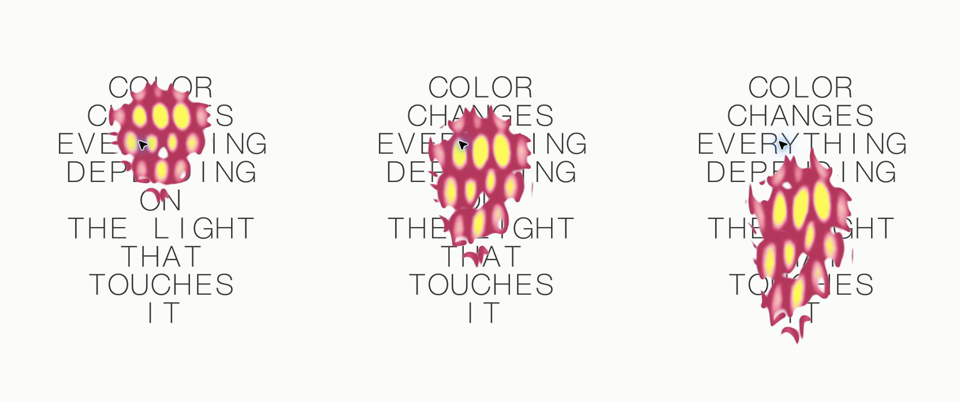
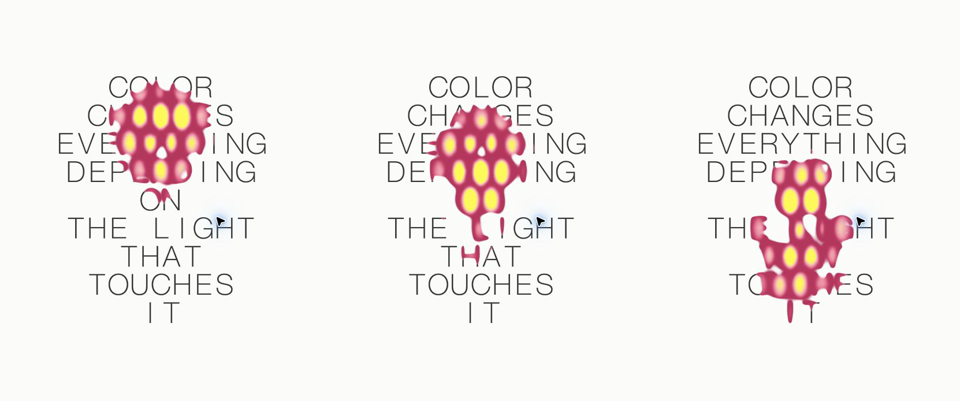
fix: flow cursor falloff through text metaballs

diff --git a/pages/color-text/script.ts b/pages/color-text/script.ts
@@ -144,7 +144,6 @@ let interactionSpeed = 0;
 let dwellAmount = 0;
 let dripAge = Number.POSITIVE_INFINITY;
 let dripEnergy = 0;
-let dripCaptureRequested = QA_MODE && state.interactionMode === 'drip';
 let artworkRect = { left: 0, top: 0, width: ART_WIDTH, height: ART_HEIGHT };
 let startTime = performance.now();
 let previousTime = startTime;
@@ -385,11 +384,6 @@ const historyTargetA = new THREE.WebGLRenderTarget(FIELD_WIDTH, FIELD_HEIGHT, li
 const historyTargetB = new THREE.WebGLRenderTarget(FIELD_WIDTH, FIELD_HEIGHT, linearTargetOptions);
 const interactionTargetA = new THREE.WebGLRenderTarget(FIELD_WIDTH, FIELD_HEIGHT, linearTargetOptions);
 const interactionTargetB = new THREE.WebGLRenderTarget(FIELD_WIDTH, FIELD_HEIGHT, linearTargetOptions);
-const dripSnapshotTarget = new THREE.WebGLRenderTarget(
-  FIELD_WIDTH,
-  FIELD_HEIGHT,
-  linearTargetOptions,
-);
 const strokeSpreadTargetA = new THREE.WebGLRenderTarget(FIELD_WIDTH, FIELD_HEIGHT, linearTargetOptions);
 const strokeSpreadTargetB = new THREE.WebGLRenderTarget(FIELD_WIDTH, FIELD_HEIGHT, linearTargetOptions);
 const colorHorizontalTarget = new THREE.WebGLRenderTarget(FIELD_WIDTH, FIELD_HEIGHT, linearTargetOptions);
@@ -495,25 +489,6 @@ const temporalMaterial = new THREE.ShaderMaterial({
   depthWrite: false,
 });
 
-const snapshotMaterial = new THREE.ShaderMaterial({
-  vertexShader,
-  fragmentShader: `
-    precision highp float;
-
-    varying vec2 vUv;
-    uniform sampler2D uInput;
-
-    void main() {
-      gl_FragColor = texture2D(uInput, vUv);
-    }
-  `,
-  uniforms: {
-    uInput: { value: sourceTarget.texture },
-  },
-  depthTest: false,
-  depthWrite: false,
-});
-
 const interactionFieldMaterial = new THREE.ShaderMaterial({
   vertexShader,
   fragmentShader: `
@@ -522,7 +497,8 @@ const interactionFieldMaterial = new THREE.ShaderMaterial({
     varying vec2 vUv;
     uniform sampler2D uHistory;
     uniform sampler2D uPrevious;
-    uniform sampler2D uDripSnapshot;
+    uniform sampler2D uText;
+    uniform sampler2D uColorCenters;
     uniform vec2 uArtSize;
     uniform vec2 uPointer;
     uniform vec2 uVelocityDirection;
@@ -545,6 +521,13 @@ const interactionFieldMaterial = new THREE.ShaderMaterial({
     uniform float uDripTurbulence;
     uniform float uDripStrength;
     uniform float uDripPinchTime;
+    uniform vec2 uLightRadius;
+    uniform float uLightRadiusYBelow;
+    uniform float uLightFalloff;
+    uniform float uLightTaperAbove;
+    uniform float uLightTaperBelow;
+    uniform float uLightTaperStart;
+    uniform float uLightTaperEnd;
     uniform float uTime;
 
     void main() {
@@ -688,26 +671,56 @@ const interactionFieldMaterial = new THREE.ShaderMaterial({
         float lateralWarp = (
           sin(sourceDown * 0.035 + localX * 0.018 + age * 1.08)
           - sin(localX * 0.018 + age * 1.08)
-        ) * 3.4 * uDripTurbulence;
+        ) * 3.4 * uDripTurbulence
+          * smoothstep(0.05, max(uDripPinchTime, 0.06), age);
 
         vec2 sourceUv = vec2(
           vUv.x - lateralWarp / uArtSize.x,
           uDripAnchor.y - sourceDown / uArtSize.y
         );
-        float inBounds = step(0.0, sourceUv.x) * step(sourceUv.x, 1.0)
-          * step(0.0, sourceUv.y) * step(sourceUv.y, 1.0);
-        vec4 movedField = texture2D(
-          uDripSnapshot,
-          clamp(sourceUv, vec2(0.0), vec2(1.0))
+
+        vec2 falloffDelta = (sourceUv - uDripAnchor) * uArtSize;
+        float verticalRadius = falloffDelta.y < 0.0
+          ? uLightRadiusYBelow
+          : uLightRadius.y;
+        float verticalRatio = abs(falloffDelta.y) / max(verticalRadius, 0.001);
+        float taperFloor = falloffDelta.y < 0.0
+          ? uLightTaperBelow
+          : uLightTaperAbove;
+        float horizontalTaper = mix(
+          1.0,
+          taperFloor,
+          smoothstep(uLightTaperStart, uLightTaperEnd, verticalRatio)
         );
-        movedField *= inBounds;
+        vec2 effectiveRadius = vec2(
+          uLightRadius.x * horizontalTaper,
+          verticalRadius
+        );
+        float normalizedDistance = length(
+          falloffDelta / max(effectiveRadius, vec2(0.001))
+        );
+        float flowedLight = 1.0 - smoothstep(
+          uLightFalloff,
+          1.0,
+          normalizedDistance
+        );
+        flowedLight *= smoothstep(1.04, 0.84, normalizedDistance);
+
+        float textMask = texture2D(uText, vUv).a;
+        float colorCenterMask = texture2D(uColorCenters, vUv).a;
 
         float densityPulse = 1.0 - breakup * uDripTurbulence * 0.12
           * (0.5 + 0.5 * sin(outputDown * 0.071 + localX * 0.043));
-        float movedSurface = movedField.r * uDripStrength * densityPulse;
+        float movedSurface = textMask
+          * pow(max(flowedLight, 0.0), 1.22)
+          * uDripStrength
+          * densityPulse;
+        float movedColor = colorCenterMask
+          * pow(max(flowedLight, 0.0), 1.12)
+          * densityPulse;
         float dripMix = clamp(uDripEnergy, 0.0, 1.0);
         surfaceActivation = mix(surfaceActivation, movedSurface, dripMix);
-        colorActivation = mix(colorActivation, movedField.b * densityPulse, dripMix);
+        colorActivation = mix(colorActivation, movedColor, dripMix);
         trail = 0.0;
       }
 
@@ -722,7 +735,8 @@ const interactionFieldMaterial = new THREE.ShaderMaterial({
   uniforms: {
     uHistory: { value: historyTargetA.texture },
     uPrevious: { value: interactionTargetA.texture },
-    uDripSnapshot: { value: dripSnapshotTarget.texture },
+    uText: { value: textTexture },
+    uColorCenters: { value: colorCenterTexture },
     uArtSize: { value: new THREE.Vector2(ART_WIDTH, ART_HEIGHT) },
     uPointer: { value: new THREE.Vector2(pointer.x, pointer.y) },
     uVelocityDirection: { value: new THREE.Vector2(1, 0) },
@@ -745,6 +759,13 @@ const interactionFieldMaterial = new THREE.ShaderMaterial({
     uDripTurbulence: { value: state.dripTurbulence },
     uDripStrength: { value: state.dripStrength },
     uDripPinchTime: { value: state.dripPinchTime },
+    uLightRadius: { value: new THREE.Vector2(state.radiusX, state.radiusY) },
+    uLightRadiusYBelow: { value: state.radiusYBelow },
+    uLightFalloff: { value: state.lightFalloff },
+    uLightTaperAbove: { value: state.taperAbove },
+    uLightTaperBelow: { value: state.taperBelow },
+    uLightTaperStart: { value: state.taperStart },
+    uLightTaperEnd: { value: state.taperEnd },
     uTime: { value: 0 },
   },
   depthTest: false,
@@ -1215,7 +1236,6 @@ clearTarget(historyTargetA);
 clearTarget(historyTargetB);
 clearTarget(interactionTargetA);
 clearTarget(interactionTargetB);
-clearTarget(dripSnapshotTarget);
 clearTarget(strokeSpreadTargetA);
 clearTarget(strokeSpreadTargetB);
 clearTarget(nearestTargetA);
@@ -1263,9 +1283,8 @@ function setPointerFromClient(clientX: number, clientY: number): void {
 function startDrip(): void {
   dripAnchor.x = pointerTarget.x;
   dripAnchor.y = pointerTarget.y;
-  dripAge = Number.POSITIVE_INFINITY;
-  dripEnergy = 0;
-  dripCaptureRequested = true;
+  dripAge = 0;
+  dripEnergy = 1;
 }
 
 if (!QA_POINTER_LOCKED) {
@@ -1295,13 +1314,11 @@ function interactionModeCode(mode: InteractionMode): number {
 function resetInteractionField(): void {
   clearTarget(interactionTargetA);
   clearTarget(interactionTargetB);
-  clearTarget(dripSnapshotTarget);
   interactionRead = interactionTargetA;
   interactionWrite = interactionTargetB;
   dwellAmount = 0;
   dripAge = Number.POSITIVE_INFINITY;
   dripEnergy = 0;
-  dripCaptureRequested = false;
   renderer.setClearColor(0xfbfbfa, 1);
   renderer.setRenderTarget(null);
 }
@@ -1566,19 +1583,6 @@ function animate(now: number): void {
   renderPass(temporalMaterial, historyWrite);
   [historyRead, historyWrite] = [historyWrite, historyRead];
 
-  if (dripCaptureRequested) {
-    sourceMaterial.uniforms.uPointer.value.set(dripAnchor.x, dripAnchor.y);
-    renderPass(sourceMaterial, sourceTarget);
-    snapshotMaterial.uniforms.uInput.value = sourceTarget.texture;
-    renderPass(snapshotMaterial, dripSnapshotTarget);
-    sourceMaterial.uniforms.uPointer.value.set(pointer.x, pointer.y);
-    if (!QA_MODE) {
-      dripAge = 0;
-      dripEnergy = 1;
-    }
-    dripCaptureRequested = false;
-  }
-
   const renderedDripAge = QA_MODE ? qaDripAge : dripAge;
   const renderedDripEnergy = QA_MODE
     ? THREE.MathUtils.clamp(qaDripEnergy, 0, 1)
@@ -1615,6 +1619,13 @@ function animate(now: number): void {
   interactionFieldMaterial.uniforms.uDripTurbulence.value = state.dripTurbulence;
   interactionFieldMaterial.uniforms.uDripStrength.value = state.dripStrength;
   interactionFieldMaterial.uniforms.uDripPinchTime.value = state.dripPinchTime;
+  interactionFieldMaterial.uniforms.uLightRadius.value.set(state.radiusX, state.radiusY);
+  interactionFieldMaterial.uniforms.uLightRadiusYBelow.value = state.radiusYBelow;
+  interactionFieldMaterial.uniforms.uLightFalloff.value = state.lightFalloff;
+  interactionFieldMaterial.uniforms.uLightTaperAbove.value = state.taperAbove;
+  interactionFieldMaterial.uniforms.uLightTaperBelow.value = state.taperBelow;
+  interactionFieldMaterial.uniforms.uLightTaperStart.value = state.taperStart;
+  interactionFieldMaterial.uniforms.uLightTaperEnd.value = state.taperEnd;
   interactionFieldMaterial.uniforms.uTime.value = elapsed;
   renderPass(interactionFieldMaterial, interactionWrite);
   [interactionRead, interactionWrite] = [interactionWrite, interactionRead];

diff --git a/docs/artworks/color-text/architecture.md b/docs/artworks/color-text/architecture.md
@@ -207,21 +207,27 @@ release 시간 = 0.34 s
 
 #### 터치 드립 모드
 
-클릭하거나 터치한 순간의 위치를 `dripAnchor`에 복사한다. 동시에 그 위치의 Falloff가 활성화한 **모든 글자 픽셀**을 `dripSnapshotTarget`에 한 장의 field로 저장한다. 이후에는 움직이는 커서가 아니라 이 고정된 전체 field와 `dripAge`를 사용한다.
+클릭하거나 터치한 순간에는 위치를 `dripAnchor`에 복사하고 경과 시간 `dripAge`를 `0`으로 만든다. **활성화된 글자 픽셀 이미지는 저장하지 않는다.** 이후 움직이는 것은 터치 결과로 나온 실루엣이 아니라, 원래 커서 주위에 있던 아래로 긴 Falloff 영역이다.
 
 ```text
-터치 위치 → Falloff 안의 활성 픽셀 전체를 저장
-경과 시간 + 중력 → field 전체의 아래 이동 거리
-가로 위치별 속도 차이 → 같은 덩어리 안에서 부분별 하강량 변화
-세로 신장 + 작은 좌우 굴곡 → 늘어지고 갈라지는 활성 field
-변형 field → 기존 Metaball 입력 → 기존 방식으로 실루엣 렌더링
+터치 위치 + 경과 시간 → 아래로 흐르는 Falloff 영역
+흐르는 Falloff × 현재 위치의 글자 픽셀 → 매 프레임 새로운 활성 픽셀
+활성 픽셀 → 기존 Metaball → 화면의 액체 실루엣
 ```
 
-이 모드는 완전한 유체 시뮬레이션이 아니다. 각 출력 픽셀이 “변형 전 스냅샷의 어느 픽셀을 읽어야 하는가”를 역으로 계산한다. 기본적으로 중력 시간식으로 전체 field를 아래로 옮기고, 가로 위치마다 조금 다른 속도와 세로 확대율을 준다. 그래서 하나의 작은 점이 새로 생기는 대신, 터치로 활성화됐던 글자 픽셀 덩어리 전체가 아래로 미끄러지고 늘어진다.
+계산은 각 출력 픽셀에서 연속적으로 이루어진다. 화면의 픽셀 `p`가 흐르기 전 Falloff의 어느 위치 `q`에서 왔는지를 중력, 세로 신장, 가로 위치별 속도 차이, 작은 좌우 굴곡으로 역산한다. 그런 다음 `q`에서 원래의 비대칭 타원 Falloff 값을 계산한다.
 
-중요한 점은 이 변형 결과를 화면에 직접 그리지 않는다는 것이다. 변형된 활성값은 `interactionFieldMaterial`의 R 채널에 들어간 뒤 `surfaceSourceMaterial → surfaceBlurMaterial → surfaceSmoothMaterial`을 그대로 통과한다. 즉 흐르는 영역만 유체처럼 계산하고, 최종 외곽선의 합쳐짐·둥근 연결·매끄러움은 기존 `192`개 황금각 표본 Metaball이 계속 담당한다. 색 중심도 같은 스냅샷의 B 채널을 같은 좌표로 이동하므로 터치 순간 별도 고정색을 주입하지 않는다.
+```text
+q = flowInverse(p, dripAnchor, dripAge)
+흐른 Falloff 값 = falloff(q, dripAnchor)
+드립 활성값(p) = 현재 글자 마스크(p) × 흐른 Falloff 값
+```
 
-![터치 직후의 전체 영역, 아래로 신장된 영역, 더 멀리 흐른 Metaball 영역](../../../pages/color-text/qa/interaction-drip-sequence.png)
+여기서 글자 마스크는 `q`가 아니라 **현재 출력 위치 `p`**에서 읽는다. 이 차이가 중요하다. 처음 닿았던 글자 픽셀을 아래로 복사하면 같은 덩어리가 통째로 미끄러지지만, 현재 방식은 흐르는 Falloff가 새 행을 지날 때 그곳의 새 글자 픽셀이 활성화된다. 따라서 `CHANGES`에서 만들어진 모양을 복사해 `THE LIGHT`로 내리는 것이 아니라, 내려온 영역과 `THE LIGHT`의 픽셀이 만나 전혀 새로운 실루엣이 생긴다.
+
+Falloff 자체는 화면에 직접 그리지 않는다. 위 곱셈의 결과만 `interactionFieldMaterial`의 R 채널에 넣고 `surfaceSourceMaterial → surfaceBlurMaterial → surfaceSmoothMaterial`을 그대로 통과시킨다. 흐르는 영향 영역의 움직임은 유체처럼 계산하지만, 글자 픽셀의 합쳐짐·둥근 연결·매끄러운 외곽선은 기존 `192`개 황금각 표본 Metaball이 계속 담당한다.
+
+![터치 직후 Falloff가 만난 글자, 아래로 흐르며 새로 만난 글자, 더 멀리 흐른 영역의 Metaball 실루엣](../../../pages/color-text/qa/interaction-drip-sequence.png)
 
 ### 5.4 너무 약한 활성 픽셀은 field 입력에서 제외한다
 
@@ -334,7 +340,6 @@ WebGL의 렌더 타깃은 GPU 안에서 다음 계산으로 넘겨줄 중간 이
 | --- | --- | --- |
 | `sourceTarget` | 글자 마스크 픽셀과 커서 Falloff를 곱한 현재 활성 이미지 | 시간 기억 |
 | `historyTargetA/B` | 각 글자 픽셀의 이전 값과 현재 값을 섞은 활성 기억 | 입력 감지 |
-| `dripSnapshotTarget` | 터치 순간 Falloff가 활성화한 전체 글자 픽셀과 색 중심 | 터치 드립의 좌표 변형 |
 | `interactionTargetA/B` | 선택한 모드로 변형한 실루엣·색 활성값과 점성 꼬리 기억 | Metaball 입력과 점성 꼬리 합성 |
 | `surfaceSourceTarget` | 임계값을 통과한 활성 픽셀 | 황금각 주변 표본 |
 | `metaballRawTarget` | 출력 픽셀마다 192개 주변 표본을 합친 원래 field | 가로 smoothing |
@@ -360,14 +365,8 @@ function animate(now) {
   renderPass(temporalMaterial, historyWrite);
   swap(historyRead, historyWrite);
 
-  // 터치가 발생한 프레임에만 Falloff의 전체 활성 field를 저장한다.
-  if (dripCaptureRequested) {
-    sourceMaterial.pointer = dripAnchor;
-    renderPass(sourceMaterial, sourceTarget);
-    renderPass(snapshotMaterial, dripSnapshotTarget);
-  }
-
-  // 4. 선택한 확장 모드 하나만 적용하고 interaction A/B를 교환한다.
+  // 4. 선택한 확장 모드 하나만 적용한다.
+  // drip이면 흐른 Falloff와 현재 글자 픽셀을 다시 곱한다.
   renderPass(interactionFieldMaterial, interactionWrite);
   swap(interactionRead, interactionWrite);
 

diff --git a/design-qa.md b/design-qa.md
@@ -401,15 +401,17 @@ final result: passed
 - Fixed-time sequence: `pages/color-text/qa/interaction-drip-sequence.png`
 - Live state before touch: `pages/color-text/qa/interaction-drip-field-before-full.jpg`
 - Live state 120 ms after touch: `pages/color-text/qa/interaction-drip-field-early-full.jpg`
-- Sequence times: 0 s snapshot, 1 s flow, 1.7 s extended flow
+- Live state about 1 s after touch: `pages/color-text/qa/interaction-drip-field-live-full.jpg`
+- Sequence times: 0 s original falloff, 1 s flow, 1.7 s extended flow
 - Fixed QA anchor: `qaX=0.50`, `qaY=0.70`
 - Live before/after captures used the normal reference falloff and palette.
 
 ## Findings
 
-- A click or touch snapshots every glyph pixel activated by that falloff, rather than creating one analytic strand at the pointer center.
-- The full snapshot moves downward under the same gravity value, stretches vertically, and develops continuous per-column speed differences.
-- The deformation writes only the input activation and color-center fields. The existing 192-sample metaball and smoothing passes still create the visible silhouette.
+- A click or touch stores only the anchor and elapsed time. No activated glyph-pixel snapshot is created.
+- The asymmetric cursor falloff itself moves downward under gravity, stretches vertically, and develops continuous per-column speed differences.
+- At every frame, the moved falloff is multiplied by the glyph mask at its new position. The sequence therefore changes from upper-line glyph pixels to newly encountered lower-line glyph pixels instead of translating the original silhouette.
+- This new activation field enters the existing 192-sample metaball and smoothing passes, which still create the visible silhouette.
 - The drip no longer writes to the direct derivative-antialiased trail channel.
 - No fallback color is injected at the anchor, and pointer-down no longer clears render targets outside the animation frame.
 - The untouched 300 px left background strip was pixel-identical immediately before and 120 ms after the live touch (infinite PSNR), confirming the full-screen color flash is gone.
@@ -418,7 +420,7 @@ final result: passed
 ## Runtime checks
 
 - Live pointer-down was tested in the existing Chrome artwork tab.
-- Fixed QA frames were checked at the snapshot, first-flow, and extended-flow phases.
+- Fixed QA frames were checked at the original-falloff, first-flow, and extended-flow phases. The visible letter topology changes between frames, confirming that the initial glyph result is not being copied downward.
 - Browser console warnings and errors: none.
 - TypeScript typecheck and the production Vite build passed before final documentation updates.
 

diff --git a/pages/color-text/spec.md b/pages/color-text/spec.md
@@ -53,8 +53,12 @@
     composites three antialiased necks plus bead seeds after the broad metaball
     pass so they stay thin. `thermal` builds dwell over 0.62 seconds below
     54 px/s, then locally stretches the field vertically before metaball
-    accumulation and amplifies its color centers. `classic` passes the remembered
-    field through unchanged. The two extensions never mix.
+    accumulation and amplifies its color centers. `drip` stores only the touched
+    anchor and age, advects the asymmetric cursor falloff downward, and
+    re-multiplies that moving falloff by the glyph pixels at each new output
+    position before metaball accumulation. It never snapshots or translates the
+    initially activated glyph shape. `classic` passes the remembered field
+    through unchanged. The three extensions never mix.
 11. Fully occlude the charcoal underprint inside the colored coverage, add only
    sub-pixel dithering inside that coverage, and animate all three palette anchors
    over time.
@@ -113,9 +117,10 @@ The reproducible measurements and label-map generator are stored in
   the opposite direction; key `1` selects it.
 - `interaction=thermal` grows taller, hotter color centers after a local dwell;
   key `2` selects it.
-- `interaction=drip` snapshots every glyph pixel activated by the touched
-  falloff, then advects and stretches that whole field downward. The transformed
-  field is rendered by the existing metaball passes; key `3` selects it.
+- `interaction=drip` advects and vertically stretches the touched cursor falloff
+  itself. Every frame, the moved falloff is multiplied by the glyph mask at its
+  current position, and those newly activated pixels enter the existing metaball
+  passes; key `3` selects it.
 - `interaction=classic` preserves the approved reference recreation without an
   extension. Only one interaction mode is evaluated per frame.
 - `?qa` freezes the palette at the reference's pink/yellow phase.
@@ -126,7 +131,8 @@ The reproducible measurements and label-map generator are stored in
 - Add `&qaInteractionSpeed=1&qaVelocityX=1&qaVelocityY=0` to freeze a viscous
   wake, or `&qaDwell=1` to freeze a fully heated thermal bloom.
 - Add `&qaDripAge=1&qaDrip=1` with `interaction=drip` to freeze the first flowed
-  state, or use `qaDripAge=1.7` to inspect the longer whole-field deformation.
+  falloff state, or use `qaDripAge=1.7` to inspect which lower glyph pixels the
+  stretched falloff activates.
 - Press `g` to hide or reveal the tuning panel.
 
 ## Reference-space defaults
